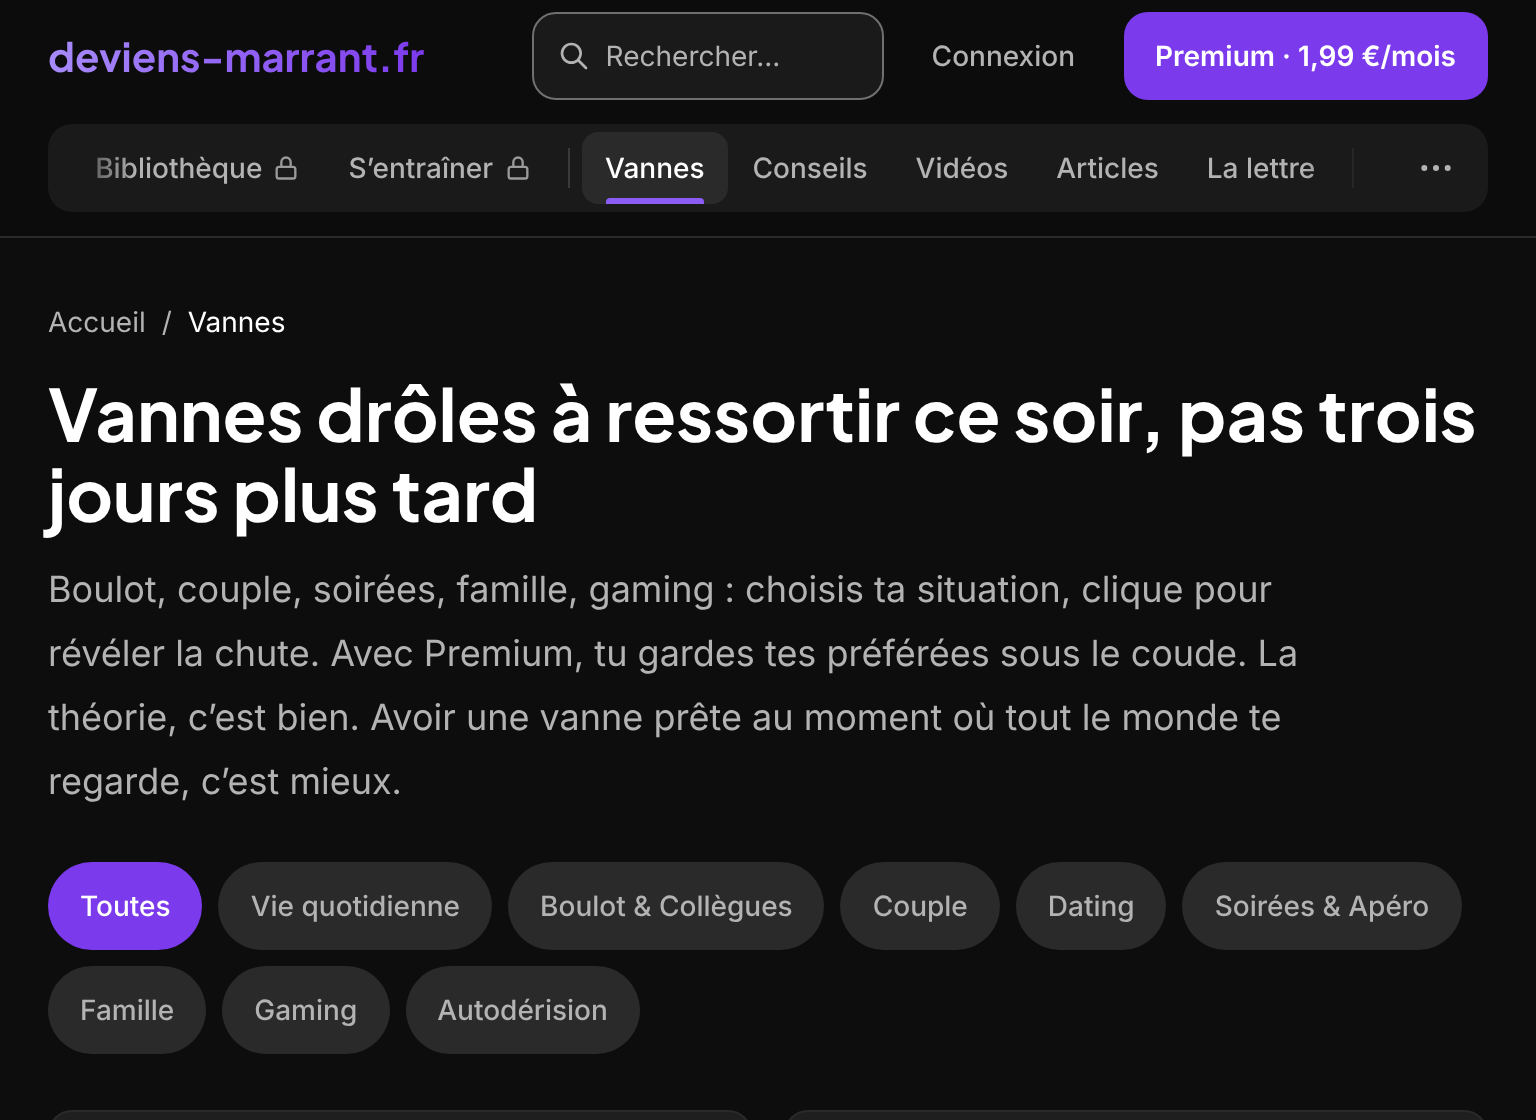
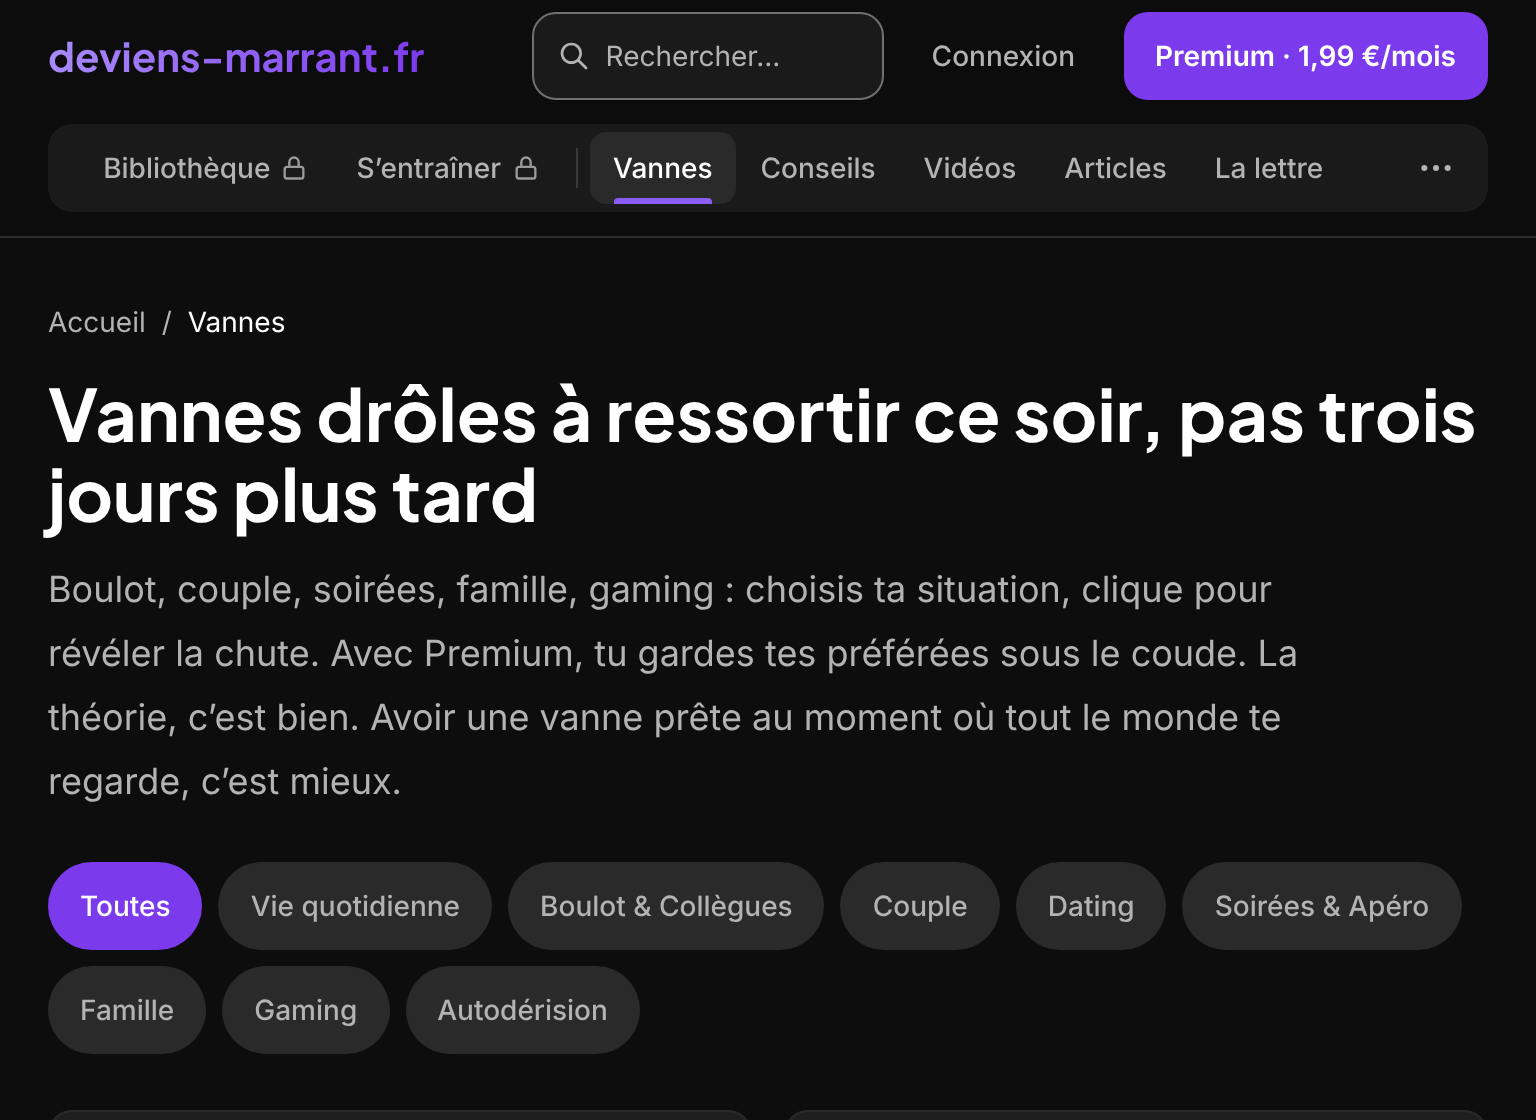
docs(design): variante D, défilement à l'arrivée sans libellé coupé (375, 768), panneau « … » sous le filet
Claude-Session: https://claude.ai/code/session_012PS7Smon81B1C68tKthZJ6

diff --git a/docs/espace-client/etalons/nav-v6/maquette.html b/docs/espace-client/etalons/nav-v6/maquette.html
@@ -159,7 +159,7 @@ tailwind.config = {
   if(V==="b"){
     band = '<div class="py-2"><nav aria-label="Rubriques" class="'+wrapPad+'"><div id="rub" class="rub flex w-fit max-w-full items-center overflow-x-auto rounded-full bg-white/[.04] px-1">'+seq()+dots(false)+'</div></nav></div>';
   } else if(V==="d"){
-    band = '<div class="pb-2 md:pb-3 md:pt-1.5"><nav aria-label="Rubriques" class="'+wrapPad+'"><div class="flex w-full items-center rounded-xl bg-background-light px-1"><div id="rub" class="rub scroll-px-10 flex min-w-0 flex-1 items-center overflow-x-auto">'+seq()+'</div>'+dots(false)+'</div></nav></div>';
+    band = '<div class="pb-2 md:pb-3 md:pt-1.5"><nav aria-label="Rubriques" class="'+wrapPad+'"><div class="flex w-full items-center rounded-xl bg-background-light px-1"><div id="rub" class="rub scroll-px-3 flex min-w-0 flex-1 items-center overflow-x-auto pr-2">'+seq()+'</div>'+dots(false)+'</div></nav></div>';
   } else {
     band = '<nav aria-label="Rubriques" class="'+wrapPad+(V==="c"?' xl:hidden':'')+'"><div id="rub" class="rub -mx-3 flex items-center overflow-x-auto">'+seq()+dots(false)+'</div></nav>';
   }
@@ -218,28 +218,50 @@ tailwind.config = {
   function fondu(){
     if(!rub) return;
     var g = rub.scrollLeft>4, d = rub.scrollLeft < rub.scrollWidth-rub.clientWidth-4;
-    var e = V==="d" ? 40 : 24;
-    var m = "linear-gradient(to right,"+(g?"transparent 0,#000 "+e+"px":"#000 0")+","+(d?"#000 calc(100% - "+e+"px),transparent 100%":"#000 100%")+")";
+    var eg = 24, ed = 24;
+    if(V==="d"){ eg = 16; ed = 32; g = rub.scrollLeft>0.5; }
+    var m = "linear-gradient(to right,"+(g?"transparent 0,#000 "+eg+"px":"#000 0")+","+(d?"#000 calc(100% - "+ed+"px),transparent 100%":"#000 100%")+")";
     rub.style.webkitMaskImage = rub.style.maskImage = (g||d) ? m : "none";
+    if(V==="d"){
+      /* un séparateur dont le groupe suivant est hors vue n'est pas laissé seul au bord : masqué (la place reste) */
+      var bR = rub.getBoundingClientRect().right;
+      [].forEach.call(rub.querySelectorAll(".sp"), function(s){
+        var n = s.nextElementSibling;
+        s.style.visibility = (n && n.getBoundingClientRect().left >= bR-8) ? "hidden" : "";
+      });
+    }
   }
   function centrer(){
     if(!rub) return;
     var a = rub.querySelector("[aria-current]");
-    if(a){
+    if(a && V!=="d"){
       var x = a.getBoundingClientRect().left - rub.getBoundingClientRect().left + rub.scrollLeft;
       rub.scrollLeft = x - (rub.clientWidth - a.offsetWidth)/2;
     }
     if(V==="d"){
-      /* Variante D : s'il reste du contenu à droite, un chip doit être visiblement entamé au bord (jamais un séparateur en dernier) */
-      var max = rub.scrollWidth - rub.clientWidth, base = rub.scrollLeft;
-      if(base < max-4){
-        var bord = rub.getBoundingClientRect().right;
-        for(var dx=0; dx<=40; dx+=8){
-          rub.scrollLeft = base+dx;
-          var coupe = [].some.call(rub.querySelectorAll(".chip"), function(c){
-            var r = c.getBoundingClientRect(); return r.left < bord-8 && r.left >= bord-40 && r.right > bord; });
-          if(coupe) break;
+      /* Variante D, règle d'arrivée : actif entier dès scrollLeft 0 s'il tient hors fondu droit (32 px) ; sinon on cale
+         sur le DÉBUT d'un chip (jamais un libellé à moitié lisible à gauche), actif entier, et le chip qui dépasse à droite
+         ne l'est que sous le fondu. */
+      rub.scrollLeft = 0;
+      var cw = rub.clientWidth, mx = rub.scrollWidth - cw;
+      if(a && mx > 0){
+        var cL = rub.getBoundingClientRect().left;
+        var pos = [].slice.call(rub.querySelectorAll(".chip")).map(function(c){ return [c.getBoundingClientRect().left - cL, c.offsetWidth, c]; });
+        var aL = a.getBoundingClientRect().left - cL, aR = aL + a.offsetWidth, t = 0;
+        if(aR > cw - 32){
+          var choix = null, repli = null;
+          for(var i=0;i<pos.length;i++){
+            if(pos[i][0] > aL) break;
+            var ps = pos[i][2].previousElementSibling;
+            var tt = Math.max(0, pos[i][0] - ((ps && ps.classList.contains("sp")) ? 4 : 12));
+            if(aR - tt > cw - 32) continue;
+            if(repli===null) repli = tt;
+            var ok = pos.every(function(p){ var l = p[0]-tt, r = l+p[1]; return !(r > cw && l < cw) || l >= cw-32; });
+            if(ok){ choix = tt; break; }
+          }
+          t = choix!==null ? choix : (repli!==null ? repli : mx);
         }
+        rub.scrollLeft = Math.min(t, mx);
       }
     }
     fondu();
@@ -300,7 +322,7 @@ tailwind.config = {
       courant = b; b.setAttribute("aria-expanded","true");
       lignes(b.dataset.row==="1");
       var r = b.getBoundingClientRect();
-      menu.style.top = (r.bottom+(V==="d"?8:4))+"px";
+      menu.style.top = (V==="d" ? document.querySelector("header").getBoundingClientRect().bottom+8 : r.bottom+4)+"px";
       var mw = menu.offsetWidth;
       menu.style.left = Math.max(8, Math.min(r.right-mw, innerWidth-mw-8))+"px";
     }
